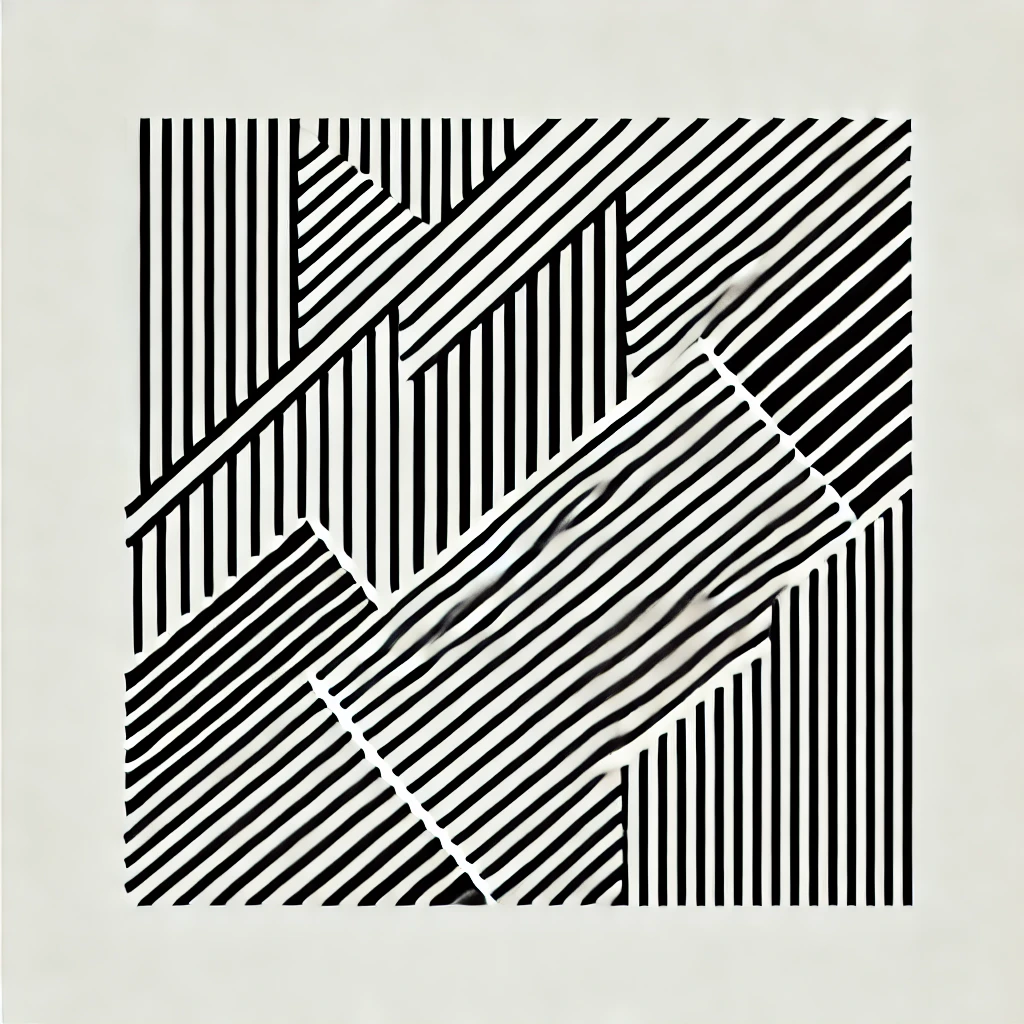
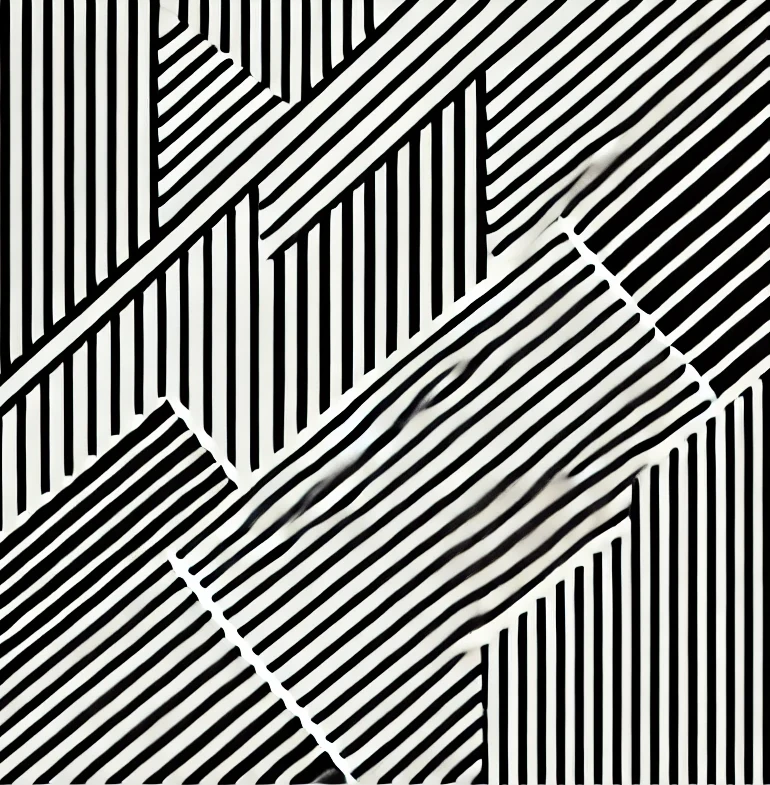
Add patterns

diff --git a/dev/index.ts b/dev/index.ts
@@ -44,7 +44,7 @@ createClock((clock, data) => {
     subdivisions: 5,
     centerOffset: min,
     texture:
-      "https://raw.githubusercontent.com/PTRRR/energy-clock-lib/main/assets/images/p-3.webp",
+      "https://raw.githubusercontent.com/PTRRR/energy-clock-lib/main/assets/images/p-4.webp",
     tint: {
       r: 255,
       g: 183,
